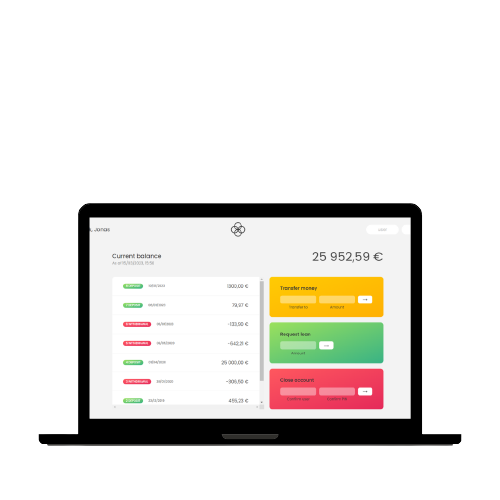
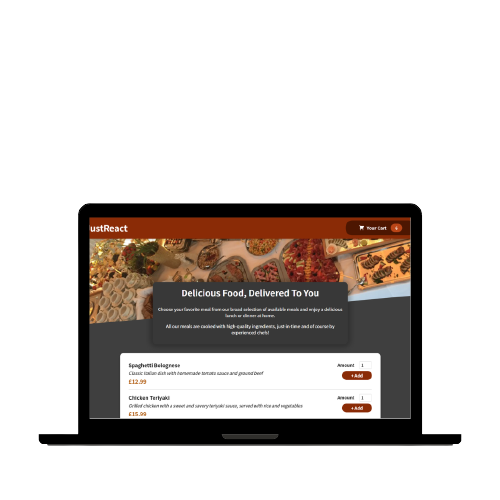
added food app to portfolio

Changed region(s): [[0.18, 0.42, 0.84, 0.84]]

diff --git a/src/info/Info.js b/src/info/Info.js
@@ -135,9 +135,9 @@ export const info = {
       image: mock2,
     },
     {
-      title: "Bankist App (Login: user: js, pass: 1111)",
-      live: "https://steven32323.github.io/Bankist/",
-      source: "https://github.com/steven32323/Bankist",
+      title: "JustReact - a food ordering app",
+      live: "https://justreact-foodapp.netlify.app/",
+      source: "https://github.com/steven32323/react-FoodOrderApp",
       image: mock3,
     },
     // {
